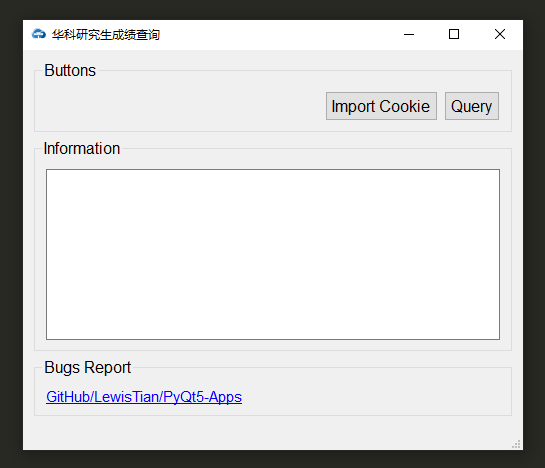
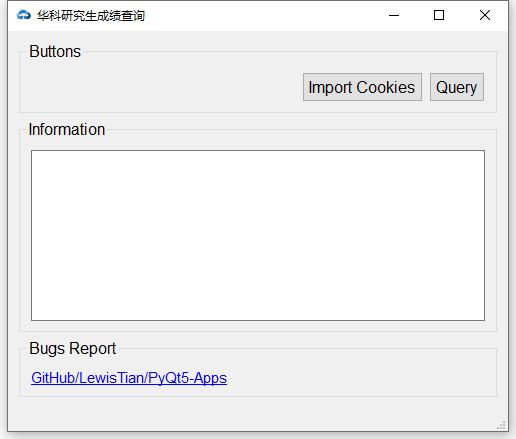
correct spelling mistake

Changed region(s): [[0.0, 0.0, 1.0, 1.0]]

diff --git a/hust-gs-grade/src/main.py b/hust-gs-grade/src/main.py
@@ -20,11 +20,11 @@ class MWin(QMainWindow, Ui_MWin):
         super(MWin, self).__init__(parent)
         self.setupUi(self)
 
-        if os.path.exists('Cookis.txt'):
-            with open('Cookis.txt') as f:
-                self.Cookis = f.read()
+        if os.path.exists('Cookies.txt'):
+            with open('Cookies.txt') as f:
+                self.Cookies = f.read()
         else:
-            self.Cookis = ''
+            self.Cookies = ''
 
         self.q = Query()
         self.q.done.connect(self.show_result)
@@ -32,20 +32,20 @@ class MWin(QMainWindow, Ui_MWin):
 
     @pyqtSlot()
     def on_in_cookie_clicked(self):
-        file = QFileDialog.getOpenFileName(self, 'Select Cookis','','text files(*.txt);;*.*')
+        file = QFileDialog.getOpenFileName(self, 'Select Cookies','','text files(*.txt);;*.*')
         if file[0]:
             try:
                 with open(file[0]) as f:
-                    self.Cookis = f.read()
+                    self.Cookies = f.read()
             except:
                 pass
 
     @pyqtSlot()
     def on_start_clicked(self):
-        if not self.Cookis:
-            self.error('Import Cookis first!!!')
+        if not self.Cookies:
+            self.error('Import Cookies first!!!')
             return
-        self.q.Cookis = self.Cookis
+        self.q.Cookies = self.Cookies
         self.q.start()
 
 
@@ -59,20 +59,20 @@ class Query(QThread):
     done = pyqtSignal(str)
     error = pyqtSignal(str)
 
-    def __init__(self, Cookis=None):
+    def __init__(self, Cookies=None):
         super(Query, self).__init__()
-        self.Cookis = Cookis
+        self.Cookies = Cookies
 
     def run(self):
-        if not self.Cookis:
-            self.error.emit('Import Cookis first!!!')
+        if not self.Cookies:
+            self.error.emit('Import Cookies first!!!')
             return
 
         url1 = 'http://yjs.hust.edu.cn/ssfw/pygl/cjgl/cjcx.do'
         url2 = 'http://yjs.hust.edu.cn/ssfw/pygl/cjgl/cjcx.do'
         headers = {
             'Connection': 'keep-alive',
-            'Cookie': self.Cookis,
+            'Cookie': self.Cookies,
             'Host': 'yjs.hust.edu.cn',
             'Referer': 'http://yjs.hust.edu.cn/ssfw/index.do',
             'Upgrade-Insecure-Requests': '1',

diff --git a/hust-gs-grade/src/mwin.py b/hust-gs-grade/src/mwin.py
@@ -99,7 +99,7 @@ class Ui_MWin(object):
         _translate = QtCore.QCoreApplication.translate
         MWin.setWindowTitle(_translate("MWin", "华科研究生成绩查询"))
         self.groupBox.setTitle(_translate("MWin", "Buttons"))
-        self.in_cookie.setText(_translate("MWin", "Import Cookis"))
+        self.in_cookie.setText(_translate("MWin", "Import Cookies"))
         self.start.setText(_translate("MWin", "Query"))
         self.groupBox_2.setTitle(_translate("MWin", "Information"))
         self.groupBox_3.setTitle(_translate("MWin", "Bugs Report"))
